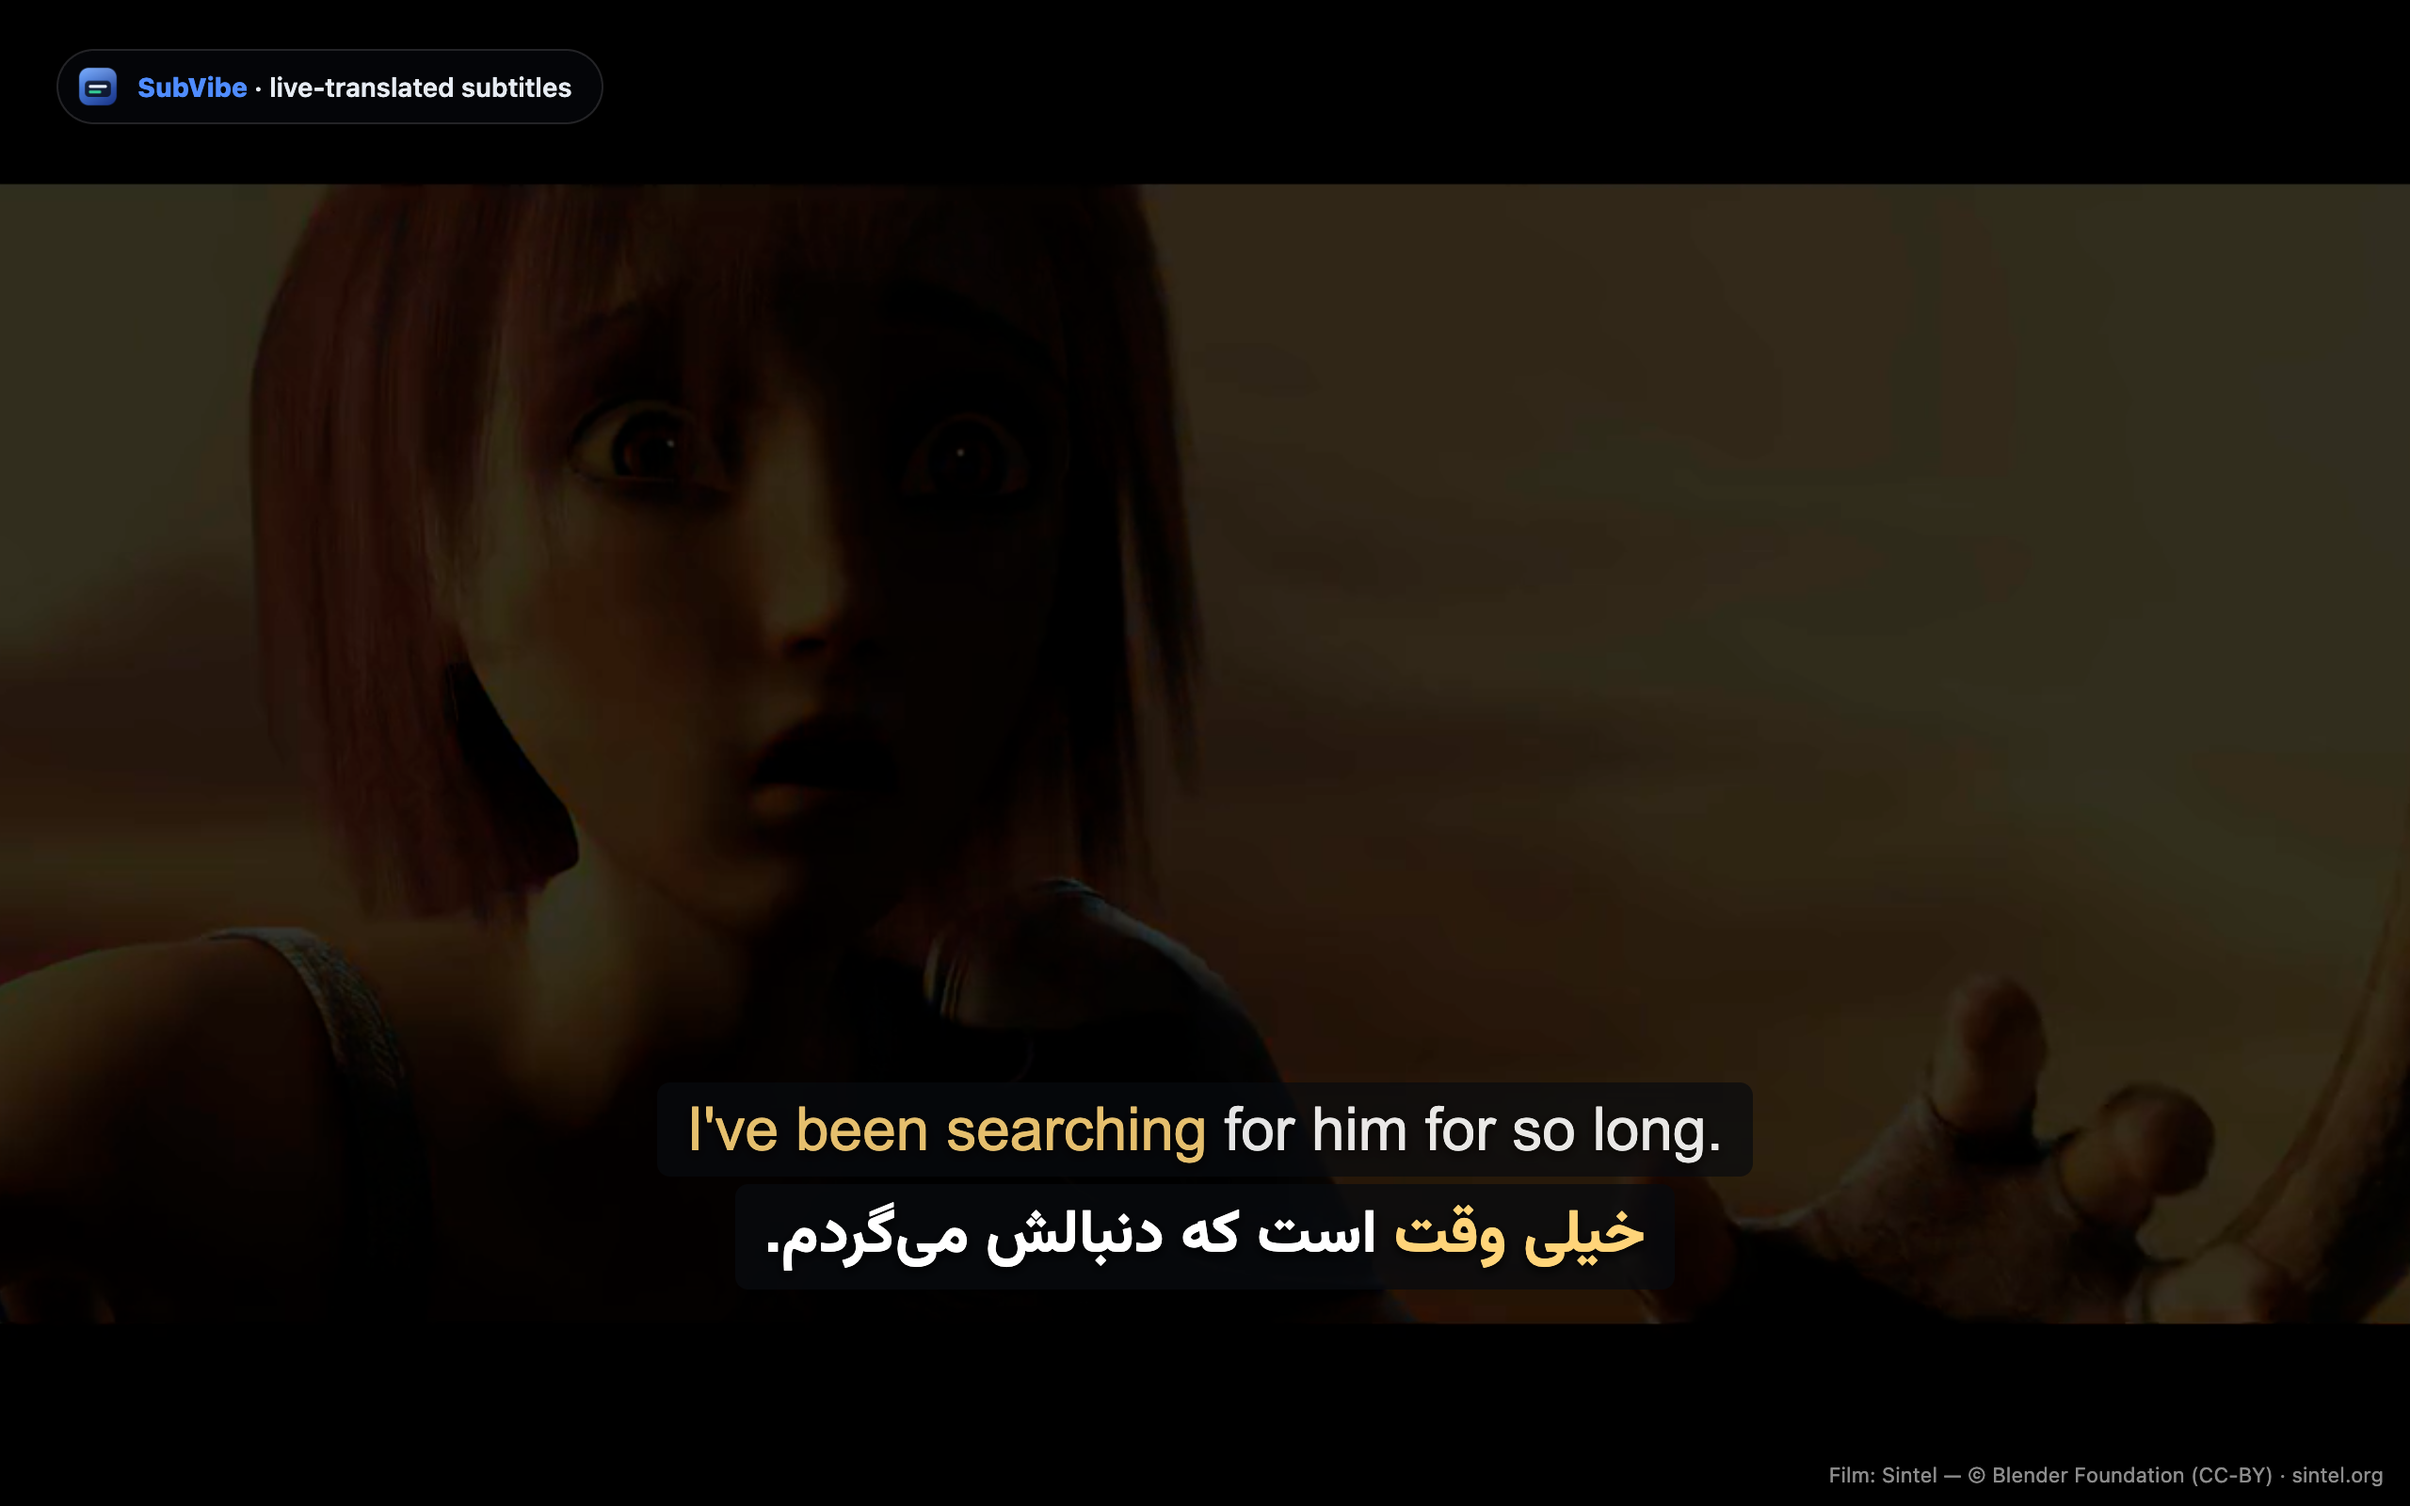
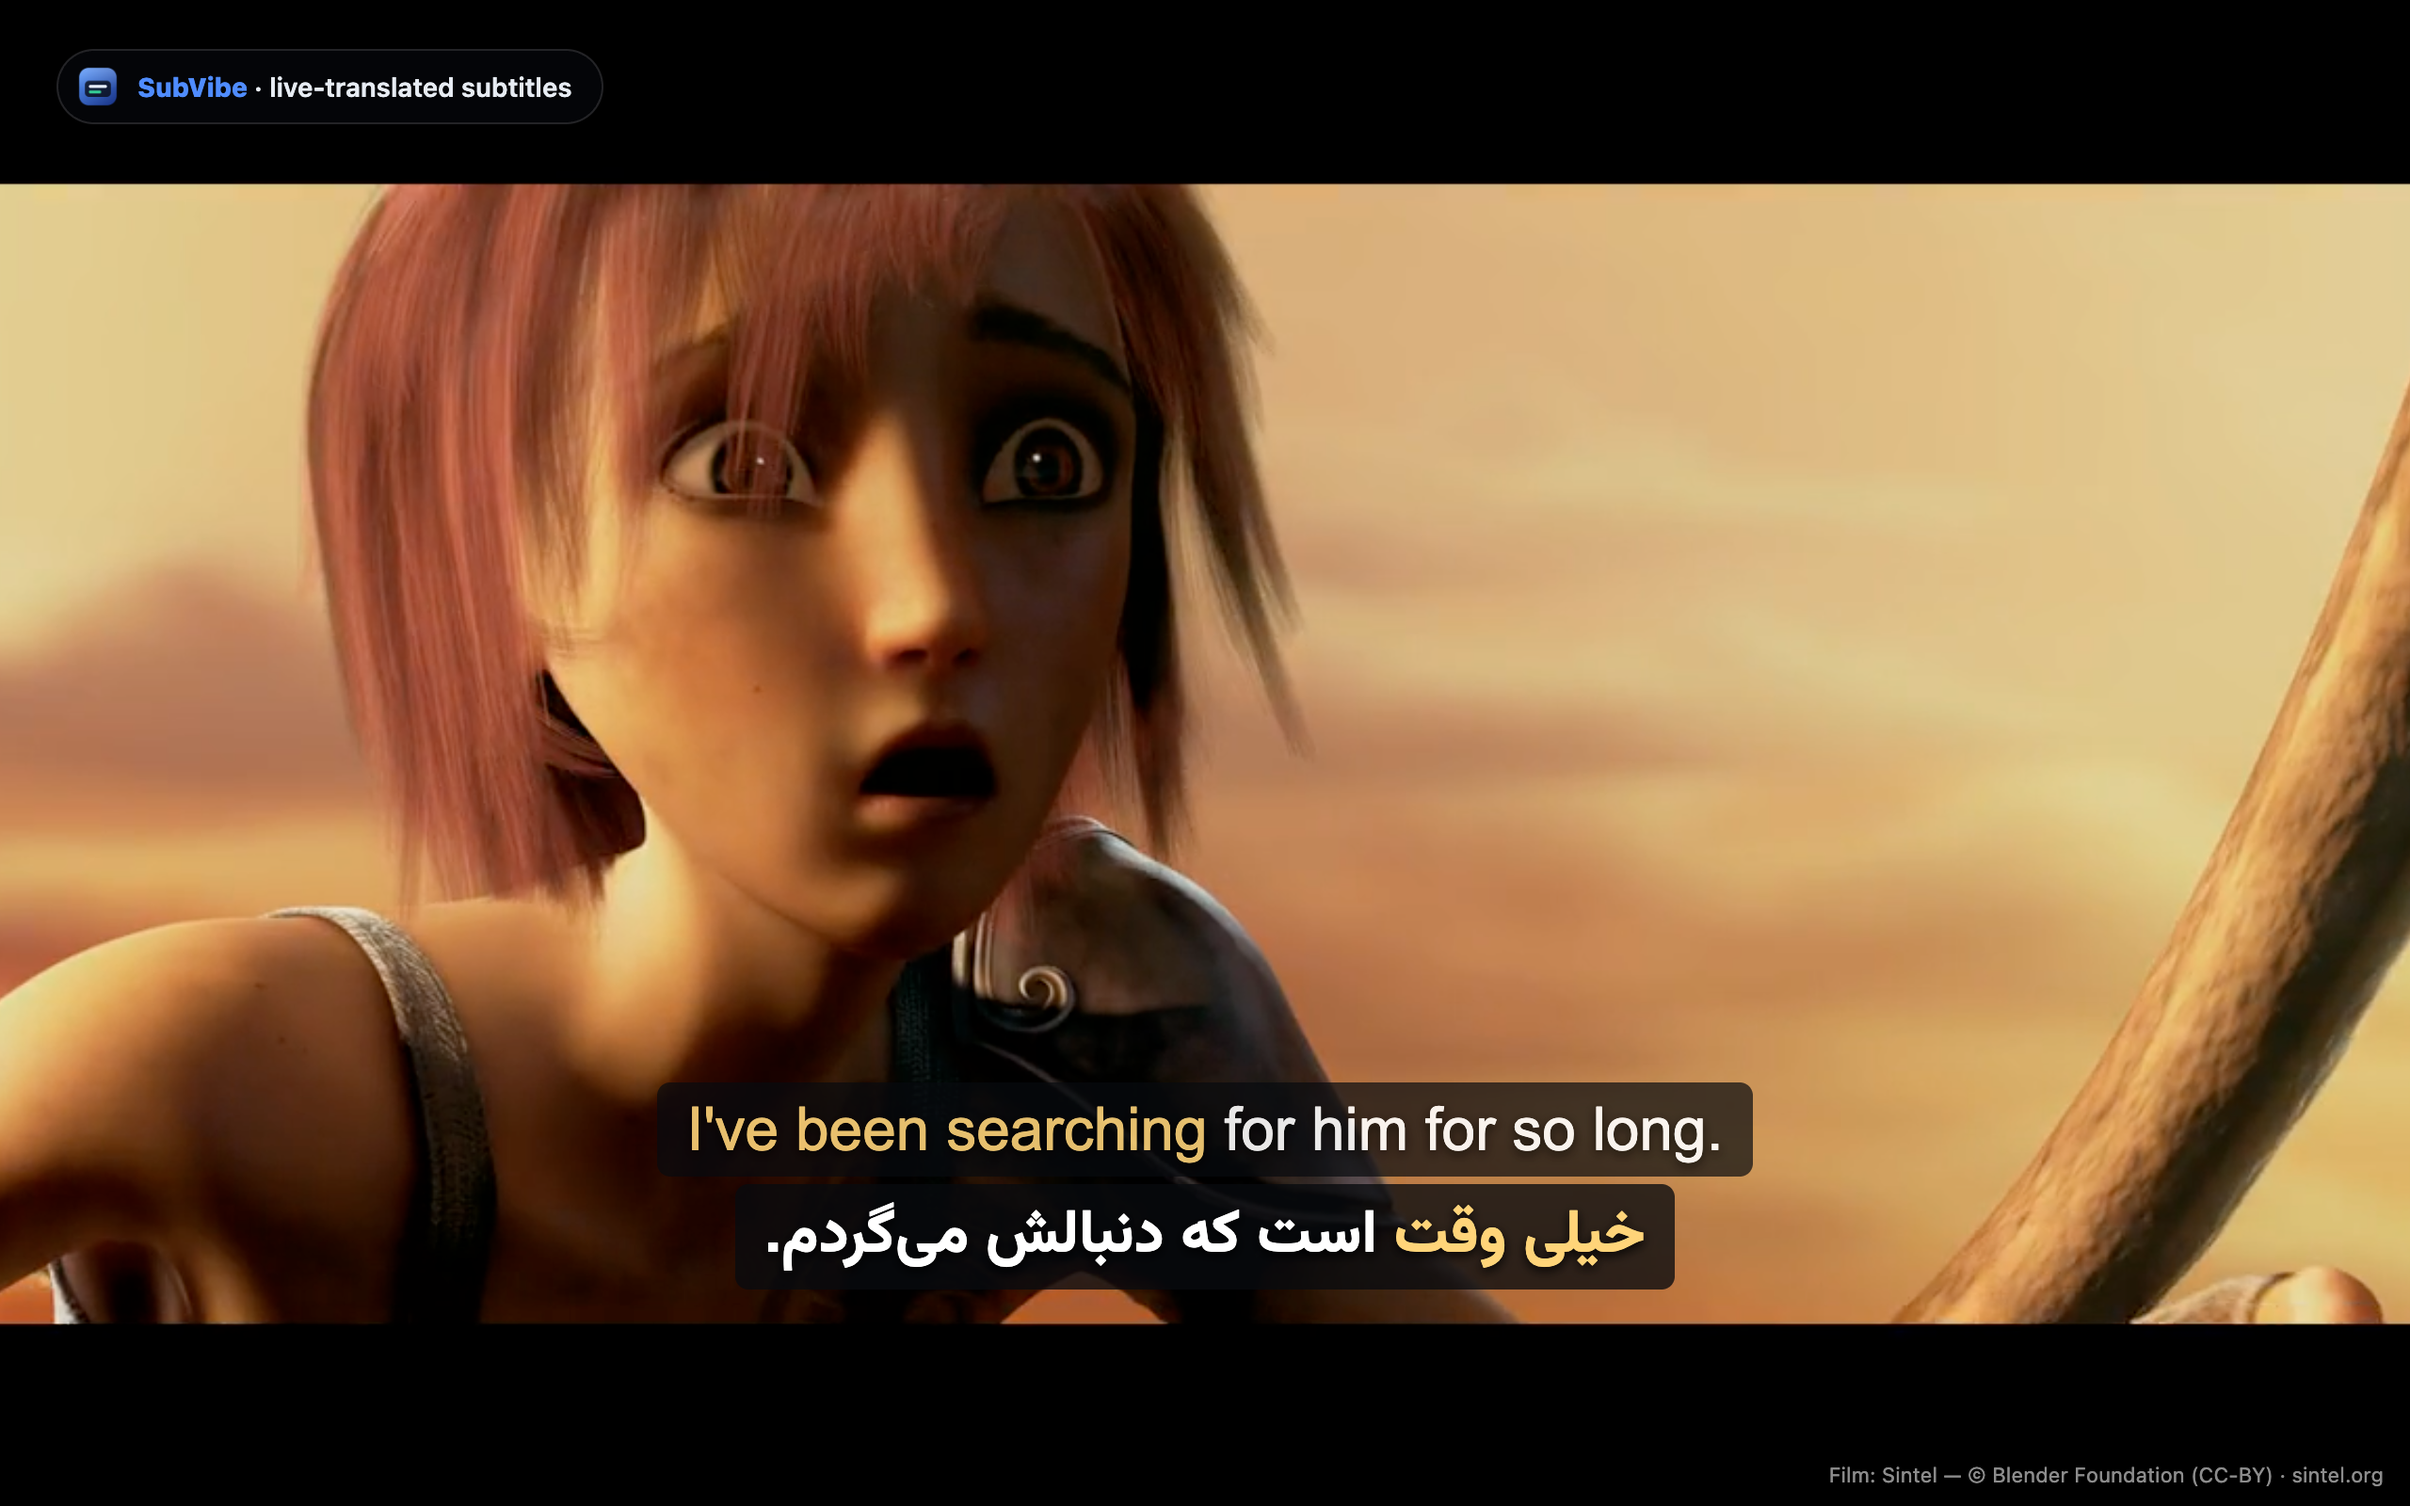
Sintel settles on 31.5 — the operator pointed at 0:31, whole-second 31.0 turned out to be motion blur mid-head-turn, and half a second later she's sharp

diff --git a/tools/store-screenshots/real-video.html b/tools/store-screenshots/real-video.html
@@ -40,7 +40,7 @@
   <div class="attr" id="attr"></div>
   <script>
     const CLIPS = {
-      sintel: { src: "https://download.blender.org/durian/trailer/sintel_trailer-720p.mp4", t: 32,
+      sintel: { src: "https://download.blender.org/durian/trailer/sintel_trailer-720p.mp4", t: 31.5, // the sharp startled close-up; 31.0 is mid-head-turn motion blur
         attr: "Film: Sintel — © Blender Foundation (CC-BY) · sintel.org",
         lines: [
           { dir: "ltr", orig: true, words: [["I've", 1], ["been", 1], ["searching", 1], ["for", 0], ["him", 0], ["for", 0], ["so", 0], ["long.", 0]] },
